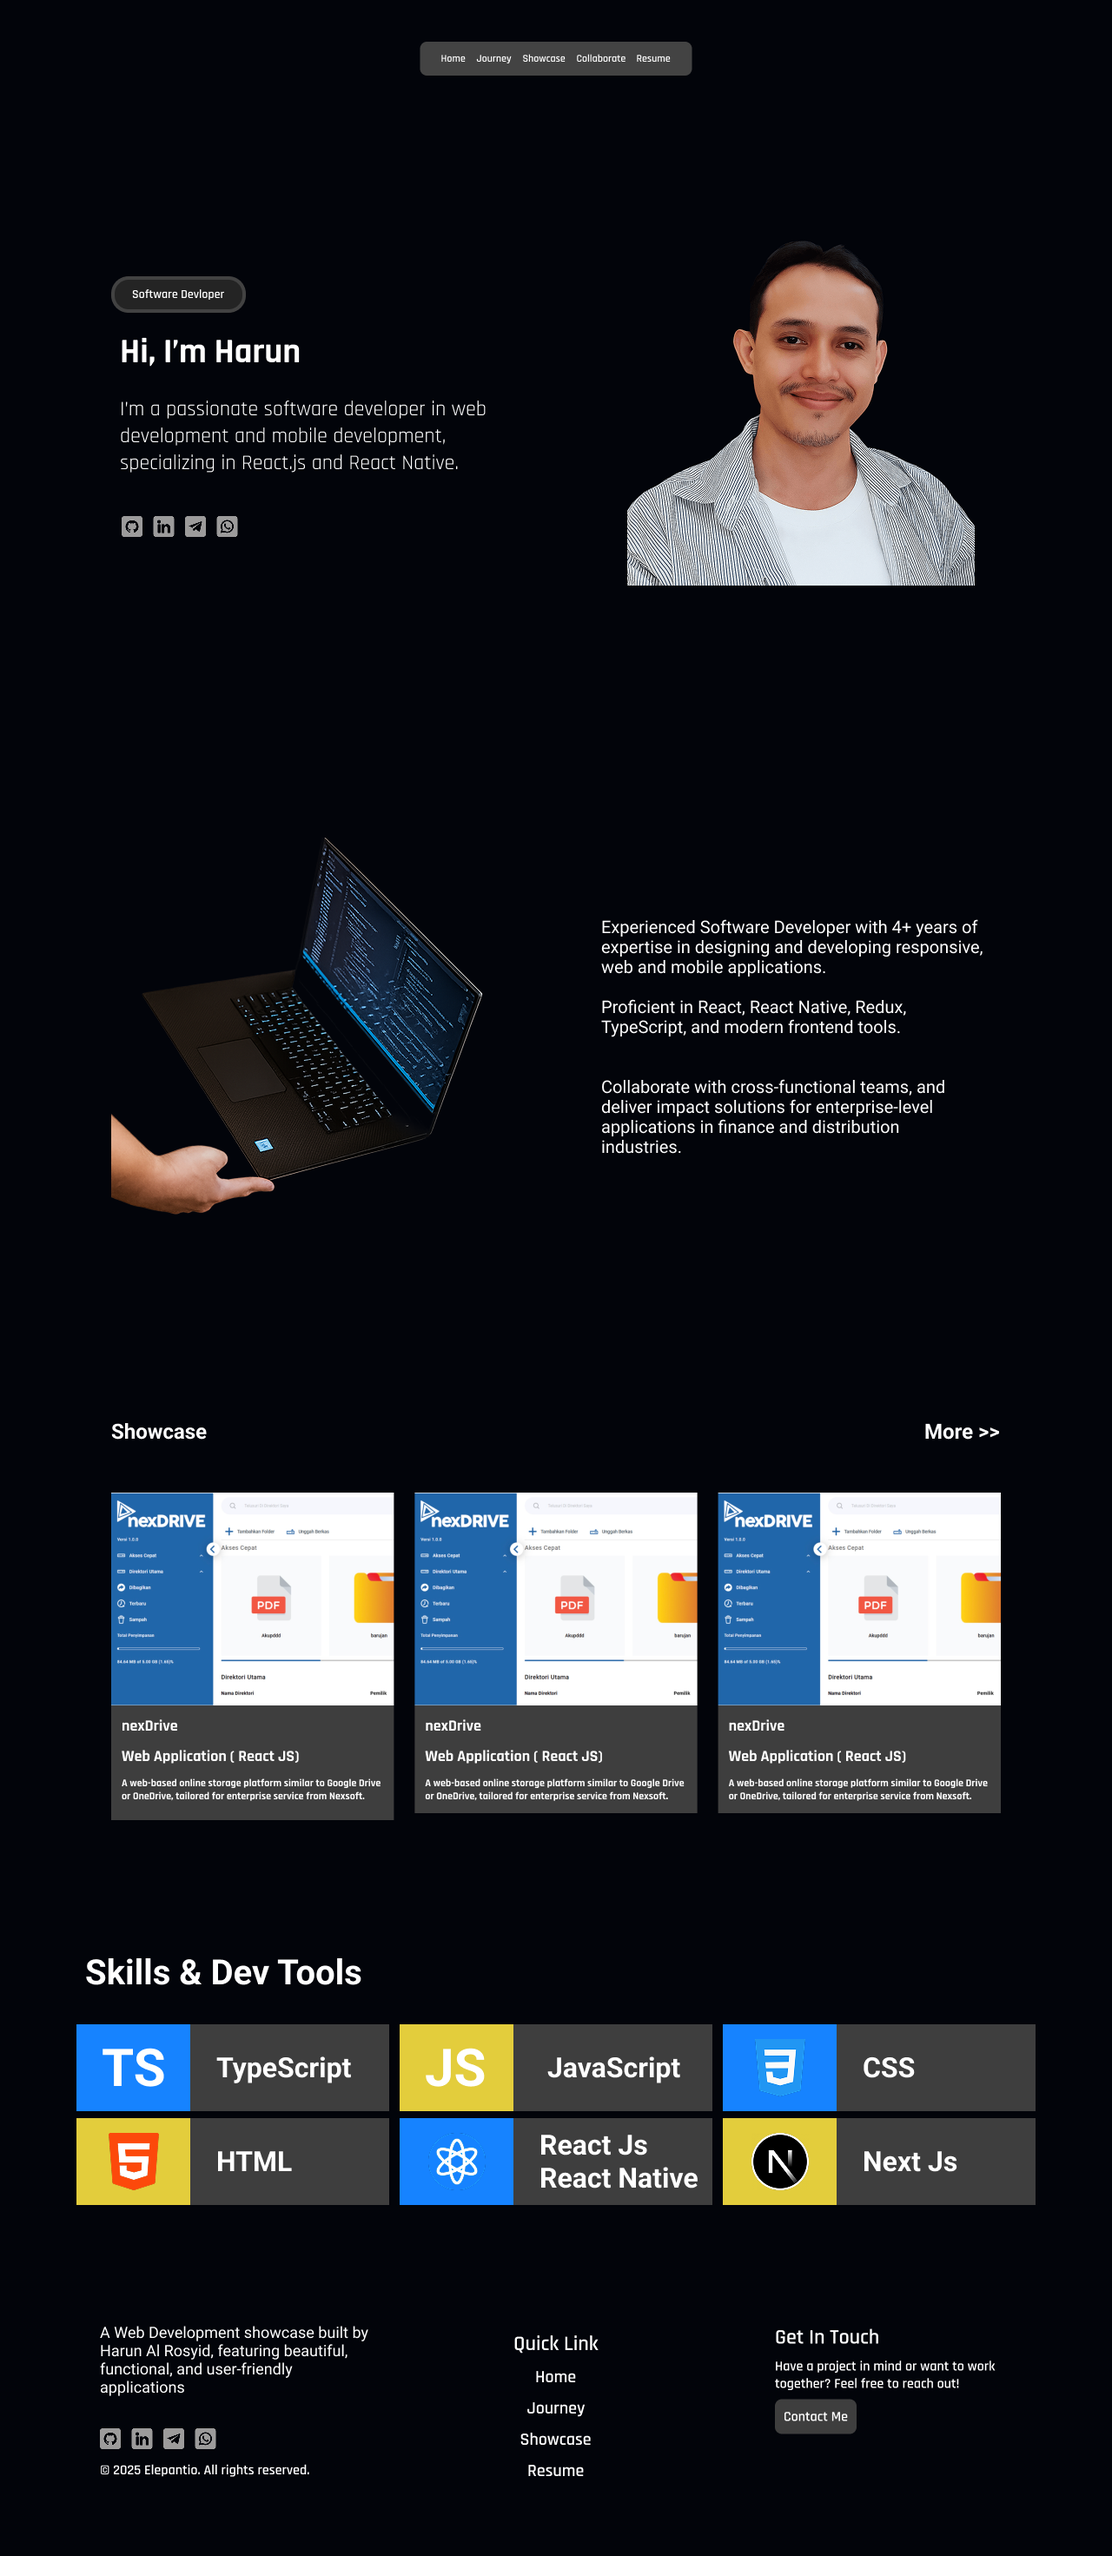
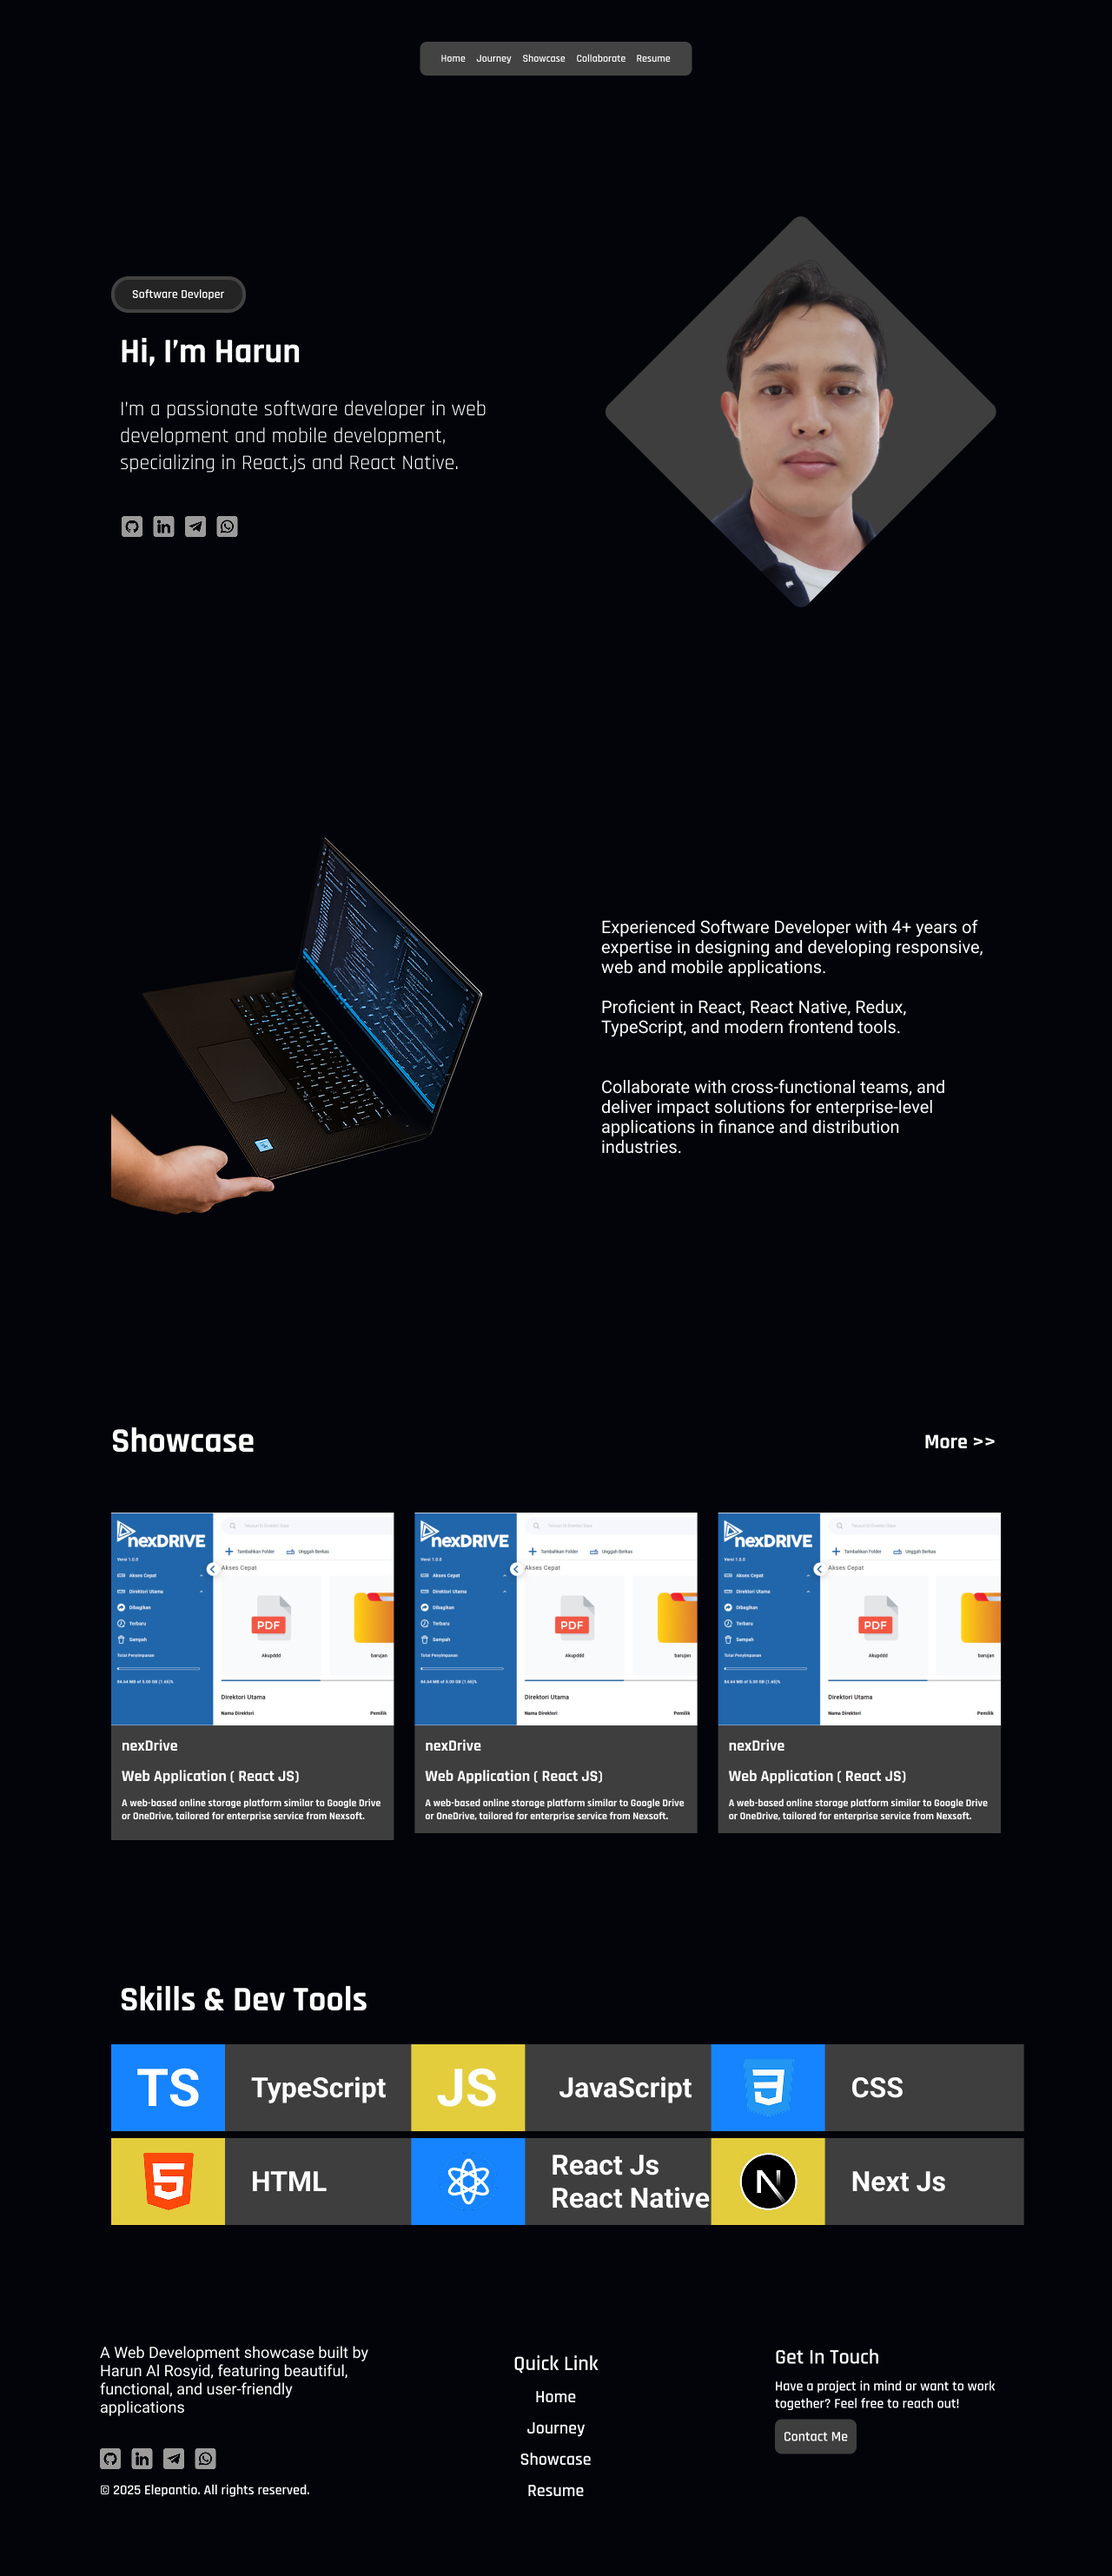
doc : add all page image and list section per page

diff --git a/README.md b/README.md
@@ -10,11 +10,11 @@ I remake my personal website, to get looks to more clean, simple, with consisten
 
 ## My previous Personal Website
 
-![OldPersonalWebsite](images/oldDesign.jpg)
+![OldPersonalWebsite](images/old-design.jpg)
 
 ## Final Design
 
-![allDesign](images/allDesign.jpg)
+![allDesign](images/all-new-design.jpg)
 
 # Inspirations
 
@@ -37,16 +37,17 @@ I just create 5 page for visitor to learn about me.
     Site Map
 
     Personal Website (harunalrosyid.com)
-    |_Home
-    |_Journey
-    |_Showcase
-    | |_Project Detail
-    |_ Lets
+    |__Home
+    |__Journey
+    |__Showcase
+    |  |__Project Detail
+    |__Lets
 ```
 
 ## Home
+Page Link [Home](https://harunalrosyid.com)
 
-I create 5 section on home page. 
+I create 5 section on Home page. 
 
 1. Introduction
 2. Short Experience
@@ -60,7 +61,7 @@ Preview Home:
 
 ## Journey
 
-I create 4 section on home page. 
+I create 4 section on Journey page. 
 
 1. Introduction
 2. Journey
@@ -72,7 +73,46 @@ Preview Home:
 ![Home](images/journey.jpg)
 
 ## Showcase
+Page Link [Showcase](https://harunalrosyid.com/showcase)
+
+I create 4 section on Showcase page. 
+
+1. Decription
+2. Skills
+3. All Showcase
+4. Footer
+
+Preview Showcase:
+
+![Showcase](images/showcase.jpg)
 
 ## Project Detail
+Page Link [Project Detail](https://harunalrosyid.com)
+
+I create 5 section on Project Detail page. 
+
+1. Decription
+2. Detail Project
+3. Tech Stack
+4. Showcase
+5. Footer
+
+Preview Project Detail:
+
+![Project Detail](images/project-detail.jpg)
 
 ## Collaborate
+Page Link [Collaborate](https://harunalrosyid.com/collaborate)
+
+I create 4 section on Collaborate page. 
+
+1. Decription
+2. Contact Form
+3. Showcase
+4. Footer
+
+Preview Collaborate:
+
+![Collaborate](images/collaborate.jpg)
+
+# Section
